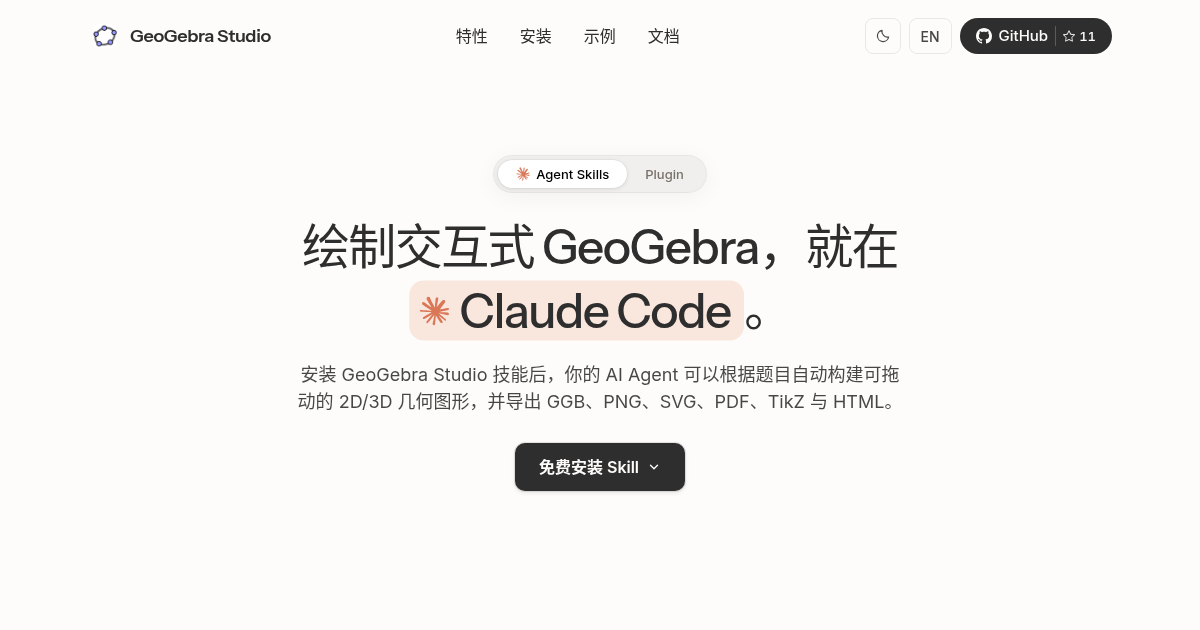
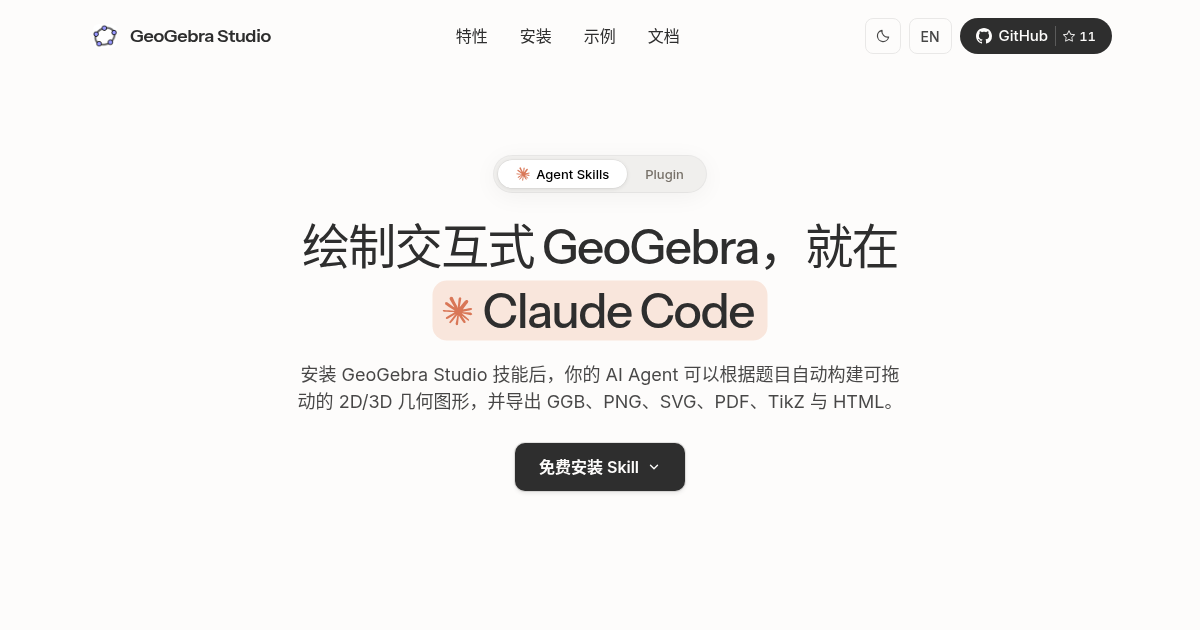
style(site): remove trailing period after rotating agent pill

Changed region(s): [[0.3392, 0.4222, 0.6475, 0.5429]]

diff --git a/site/index.html b/site/index.html
@@ -115,7 +115,7 @@
         <h1 id="hero-title" class="hero-title">
           <span class="sr-only" data-en="Draw interactive GeoGebra in Claude Code, ChatGPT/Codex, DeepSeek Harness, Grok Bot or Cursor.">用 Claude Code、ChatGPT/Codex、DeepSeek Harness、Grok Bot 或 Cursor 绘制交互式 GeoGebra。</span>
           <span aria-hidden="true" class="hero-title-visual">
-            <span class="hero-line-1" data-en="Draw interactive GeoGebra in">绘制交互式 GeoGebra，就在</span><br><span class="hero-line-2"><span class="rotating-pill" id="rotating-pill"><span class="rotating-track" id="rotating-track"><span class="rotating-measure" id="rotating-measure" aria-hidden="true"></span><span class="rotating-active" id="rotating-active"><img src="logos/claude.svg" alt="" class="agent-logo"><span>Claude Code</span></span></span></span><span class="hero-after-pill" data-en=".">。</span></span>
+            <span class="hero-line-1" data-en="Draw interactive GeoGebra in">绘制交互式 GeoGebra，就在</span><br><span class="hero-line-2"><span class="rotating-pill" id="rotating-pill"><span class="rotating-track" id="rotating-track"><span class="rotating-measure" id="rotating-measure" aria-hidden="true"></span><span class="rotating-active" id="rotating-active"><img src="logos/claude.svg" alt="" class="agent-logo"><span>Claude Code</span></span></span></span></span>
           </span>
         </h1>
 

diff --git a/site/site.css b/site/site.css
@@ -379,8 +379,6 @@ ul { margin: 0; padding: 0; list-style: none; }
   text-align: center;
 }
 
-.hero-after-pill:empty { display: none; }
-
 /* Rotating Pill & Track */
 .rotating-pill {
   display: inline-block;
